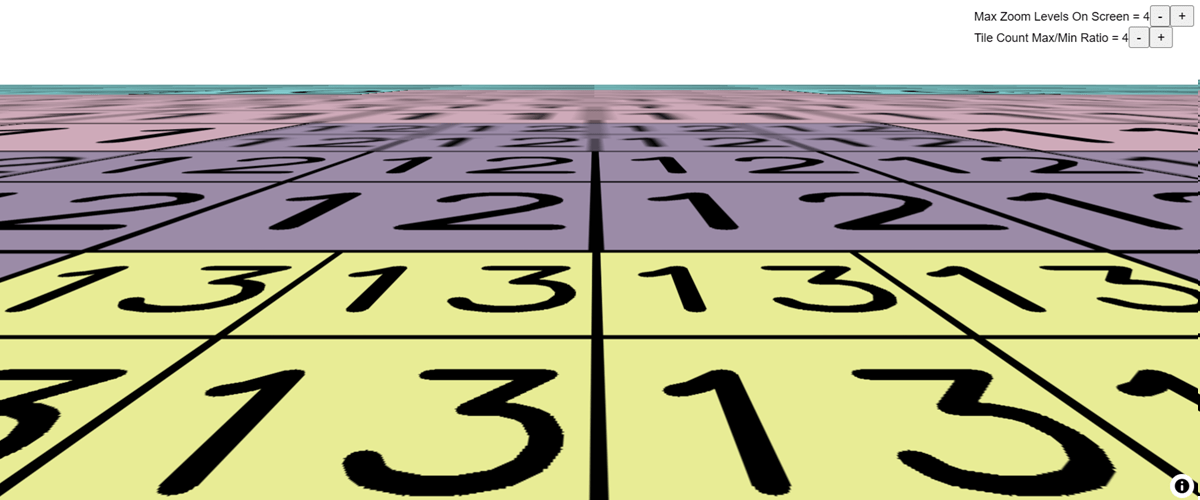
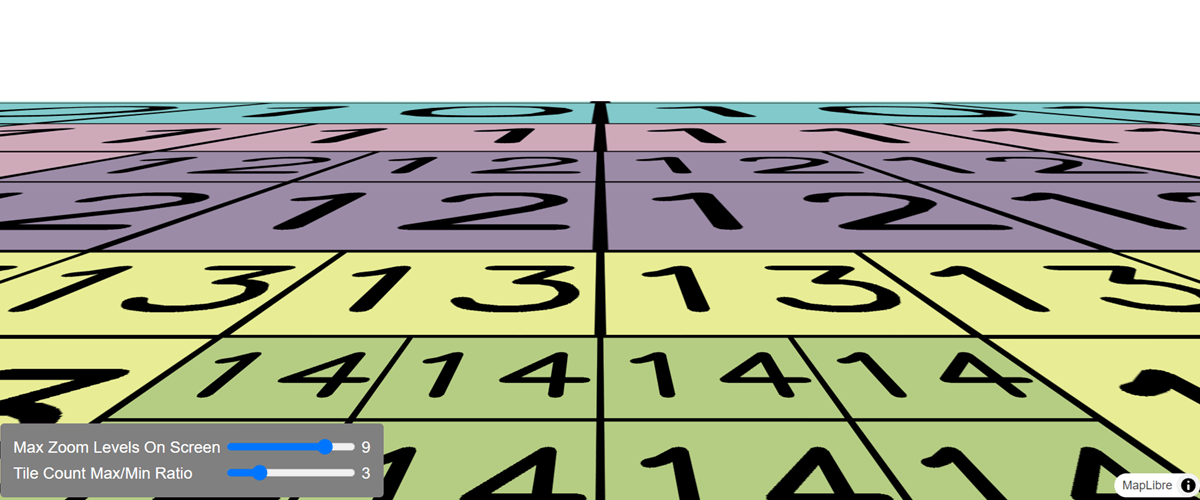
PR feedback

diff --git a/test/examples/lod-control.html b/test/examples/lod-control.html
@@ -10,11 +10,30 @@
     <style>
         body { margin: 0; padding: 0; }
         html, body, #map { height: 100%; }
+        .listing-group {
+            font-family: 'Helvetica Neue', Arial, Helvetica, sans-serif;
+            position: absolute;
+            bottom: 10px;
+            left: 10px;
+            color: #fff;
+            background-color: gray;
+            padding: 10px;
+            border-radius: 4px;
+        }
     </style>
 </head>
 <body>
 <div id="map"></div>
+<table id="listing-group" class="listing-group">
+    <tr><td><label for="max-zoom-levels-slider">Max Zoom Levels On Screen</label></td><td><input type="range" id="max-zoom-levels-slider" min="1" max="11" step="1.0" value="9.0" /></td><td><span id="max-zoom-levels-value">9.0</span></td></tr>
+    <tr><td><label for="tile-count-ratio-slider">Tile Count Max/Min Ratio</label></td><td><input type="range" id="tile-count-ratio-slider" min="1" max="10" step="0.1" value="3.0" /></td><td><span id="tile-count-ratio-value">3.0</span></td></tr>
+</table>
 <script>
+    function setLodParamsFromUi() {
+        map.setSourceTileLodParams(document.getElementById('max-zoom-levels-slider').value, document.getElementById('tile-count-ratio-slider').value);
+        document.getElementById('max-zoom-levels-value').innerHTML = document.getElementById('max-zoom-levels-slider').value;
+        document.getElementById('tile-count-ratio-value').innerHTML = document.getElementById('tile-count-ratio-slider').value;
+    }
     const map = (window.map = new maplibregl.Map({
         container: 'map',
         zoom: 12,
@@ -42,77 +61,10 @@
         maxZoom: 22,
         maxPitch: 85
     }));
-
-    class LodControl {
-        onAdd(map) {
-            this._map = map;
-            this._maxZoomLevels = 4;
-            this._tileCountRatio = 4;
-            this._container = document.createElement('div');
-            this._container.className = 'maplibregl-ctrl';
-
-            let maxZoomLevelsLabel = document.createElement('span');
-            maxZoomLevelsLabel.innerHTML = "Max Zoom Levels On Screen = ";
-            let maxZoomLevelsValue = document.createElement('span');
-            maxZoomLevelsValue.innerHTML = this._maxZoomLevels;
-            let maxZoomLevelsDown = document.createElement('button');
-            maxZoomLevelsDown.innerHTML = "-";
-            maxZoomLevelsDown.onclick = (e) => {
-                if(this._maxZoomLevels > 1) {
-                    this._maxZoomLevels -= 1.0;
-                }
-                maxZoomLevelsValue.innerHTML = this._maxZoomLevels;
-                this._map.setSourceTileLodParams(this._maxZoomLevels, this._tileCountRatio);
-            };
-            let maxZoomLevelsUp = document.createElement('button');
-            maxZoomLevelsUp.innerHTML = "+";
-            maxZoomLevelsUp.onclick = (e) => {
-                this._maxZoomLevels += 1.0;
-                maxZoomLevelsValue.innerHTML = this._maxZoomLevels;
-                this._map.setSourceTileLodParams(this._maxZoomLevels, this._tileCountRatio);
-            };
-            this._container.appendChild(maxZoomLevelsLabel);
-            this._container.appendChild(maxZoomLevelsValue);
-            this._container.appendChild(maxZoomLevelsDown);
-            this._container.appendChild(maxZoomLevelsUp);
-
-            let tileCountRatioLabel = document.createElement('span');
-            tileCountRatioLabel.innerHTML = "<br>Tile Count Max/Min Ratio = ";
-            let tileCountRatioValue = document.createElement('span');
-            tileCountRatioValue.innerHTML = this._tileCountRatio;
-            let tileCountRatioDown = document.createElement('button');
-            tileCountRatioDown.innerHTML = "-";
-            tileCountRatioDown.onclick = (e) => {
-                if(this._tileCountRatio > 1) {
-                    this._tileCountRatio -= 1.0;
-                }
-                tileCountRatioValue.innerHTML = this._tileCountRatio;
-                this._map.setSourceTileLodParams(this._maxZoomLevels, this._tileCountRatio);
-            };
-            let tileCountRatioUp = document.createElement('button');
-            tileCountRatioUp.innerHTML = "+";
-            tileCountRatioUp.onclick = (e) => {
-                this._tileCountRatio += 1.0;
-                tileCountRatioValue.innerHTML = this._tileCountRatio;
-                this._map.setSourceTileLodParams(this._maxZoomLevels, this._tileCountRatio);
-            };
-            this._container.appendChild(tileCountRatioLabel);
-            this._container.appendChild(tileCountRatioValue);
-            this._container.appendChild(tileCountRatioDown);
-            this._container.appendChild(tileCountRatioUp);
-
-            return this._container;
-        }
-
-        onRemove() {
-            this._container.parentNode.removeChild(this._container);
-            this._map = undefined;
-        }
-    }
-
-    map.addControl(new LodControl());
     map.on('load', () => {
-        map.setSourceTileLodParams(4, 4);
+        document.getElementById('max-zoom-levels-slider').addEventListener('change', setLodParamsFromUi);
+        document.getElementById('tile-count-ratio-slider').addEventListener('change', setLodParamsFromUi);
+        setLodParamsFromUi();
     });
 
 </script>
